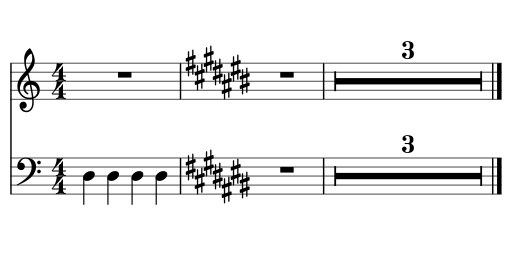
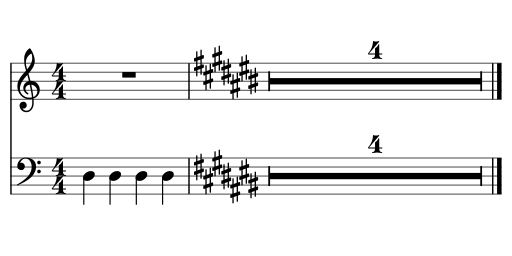
fix regressions for new mm rest implementation
Former-commit-id: 528d2976c24575aefdb820059eb806a4b4ad6875

diff --git a/libmscore/score.cpp b/libmscore/score.cpp
@@ -1596,13 +1596,10 @@ Measure* Score::firstMeasureMM() const
       MeasureBase* mb = _measures.first();
       while (mb && mb->type() != Element::MEASURE)
             mb = mb->next();
-      if (mb
-         && mb->type() == Element::MEASURE
-         && styleB(ST_createMultiMeasureRests)
-         && static_cast<Measure*>(mb)->hasMMRest()) {
-            return static_cast<Measure*>(mb)->mmRest();
-            }
-      return static_cast<Measure*>(mb);
+      Measure* m = static_cast<Measure*>(mb);
+      if (m && styleB(ST_createMultiMeasureRests) && m->hasMMRest())
+            return m->mmRest();
+      return m;
       }
 
 //---------------------------------------------------------
@@ -2038,7 +2035,7 @@ void Score::removeExcerpt(Score* score)
 
 void Score::updateNotes()
       {
-      for (Measure* m = firstMeasure(); m; m = m->nextMeasure()) {
+      for (Measure* m = firstMeasureMM(); m; m = m->nextMeasureMM()) {
             for (int staffIdx = 0; staffIdx < nstaves(); ++staffIdx) {
                   AccidentalState tversatz;      // state of already set accidentals for this measure
                   tversatz.init(staff(staffIdx)->keymap()->key(m->tick()));
@@ -2059,7 +2056,7 @@ void Score::updateNotes()
 
 void Score::cmdUpdateNotes()
       {
-      for (Measure* m = firstMeasure(); m; m = m->nextMeasure()) {
+      for (Measure* m = firstMeasureMM(); m; m = m->nextMeasureMM()) {
             for (int staffIdx = 0; staffIdx < nstaves(); ++staffIdx)
                   updateAccidentals(m, staffIdx);
             }
@@ -2075,7 +2072,7 @@ void Score::cmdUpdateAccidentals(Measure* beginMeasure, int staffIdx)
 //      qDebug("cmdUpdateAccidentals m=%d for staff=%d",
 //            beginMeasure->no(), staffIdx);
       Staff* st = staff(staffIdx);
-      for (Measure* m = beginMeasure; m; m = m->nextMeasure()) {
+      for (Measure* m = beginMeasure; m; m = m->nextMeasureMM()) {
             AccidentalState as;
             as.init(st->keymap()->key(m->tick()));
 
@@ -2257,8 +2254,11 @@ void Score::splitStaff(int staffIdx, int splitPoint)
 
       undoInsertStaff(ns, staffIdx+1);
 
-      for (Measure* m = firstMeasure(); m; m = m->nextMeasure())
+      for (Measure* m = firstMeasure(); m; m = m->nextMeasure()) {
             m->cmdAddStaves(staffIdx+1, staffIdx+2, false);
+            if (m->hasMMRest())
+                  m->mmRest()->cmdAddStaves(staffIdx+1, staffIdx+2, false);
+            }
 
       Clef* clef = new Clef(this);
       clef->setClefType(ClefType::F);
@@ -2268,16 +2268,6 @@ void Score::splitStaff(int staffIdx, int splitPoint)
       undoAddElement(clef);
 
       undoChangeKeySig(ns, 0, s->key(0));
-
-#if 0       // created on layout
-      Bracket* b = new Bracket(this);
-      b->setSubtype(BRACKET_AKKOLADE);
-      b->setTrack(staffIdx * VOICES);
-      b->setParent(firstMeasure()->system());
-      b->setLevel(-1);  // add bracket
-      b->setSpan(2);
-      undoAddElement(b);
-#endif
 
       rebuildMidiMapping();
       _instrumentsChanged = true;
@@ -2392,8 +2382,12 @@ void Score::cmdInsertPart(Part* part, int staffIdx)
 
       int sidx = this->staffIdx(part);
       int eidx = sidx + part->nstaves();
-      for (Measure* m = firstMeasure(); m; m = m->nextMeasure())
+      for (Measure* m = firstMeasure(); m; m = m->nextMeasure()) {
             m->cmdAddStaves(sidx, eidx, true);
+            if (m->hasMMRest())
+                  m->mmRest()->cmdAddStaves(sidx, eidx, true);
+            }
+
       adjustBracketsIns(sidx, eidx);
       }
 
@@ -2407,16 +2401,18 @@ void Score::cmdRemovePart(Part* part)
       int n      = part->nstaves();
       int eidx   = sidx + n;
 
-// qDebug("cmdRemovePart %d-%d", sidx, eidx);
-
       //
       //    adjust measures
       //
-      for (Measure* m = firstMeasure(); m; m = m->nextMeasure())
+      for (Measure* m = firstMeasure(); m; m = m->nextMeasure()) {
             m->cmdRemoveStaves(sidx, eidx);
+            if (m->hasMMRest())
+                  m->mmRest()->cmdRemoveStaves(sidx, eidx);
+            }
 
       for (int i = 0; i < n; ++i)
             cmdRemoveStaff(sidx);
+
       undoRemovePart(part, sidx);
       }
 
@@ -2559,8 +2555,11 @@ void Score::cmdRemoveStaff(int staffIdx)
                        int lstaffIdx = lscore->staffIdx(staff);
                        int pIndex = lscore->staffIdx(staff->part());
                        //adjustBracketsDel(lstaffIdx, lstaffIdx+1);
-                       for (Measure* m = lscore->firstMeasure(); m; m = m->nextMeasure())
+                       for (Measure* m = lscore->firstMeasure(); m; m = m->nextMeasure()) {
                               m->cmdRemoveStaves(lstaffIdx, lstaffIdx + 1);
+                              if (m->hasMMRest())
+                                    m->mmRest()->cmdRemoveStaves(lstaffIdx, lstaffIdx + 1);
+                              }
                         undoRemoveStaff(staff, lstaffIdx);
                         if (staff->part()->nstaves() == 0)
                               undoRemovePart(staff->part(), pIndex);
@@ -2589,7 +2588,7 @@ void Score::sortStaves(QList<int>& dst)
       _parts.clear();
       Part* curPart = 0;
       QList<Staff*> dl;
-      foreach(int idx, dst) {
+      foreach (int idx, dst) {
             Staff* staff = _staves[idx];
             if (staff->part() != curPart) {
                   curPart = staff->part();
@@ -2601,11 +2600,10 @@ void Score::sortStaves(QList<int>& dst)
             }
       _staves = dl;
 
-      for (MeasureBase* mb = _measures.first(); mb; mb = mb->next()) {
-            if (mb->type() != Element::MEASURE)
-                  continue;
-            Measure* m = static_cast<Measure*>(mb);
+      for (Measure* m = firstMeasure(); m; m = m->nextMeasure()) {
             m->sortStaves(dst);
+            if (m->hasMMRest())
+                  m->mmRest()->sortStaves(dst);
             }
       }
 

diff --git a/libmscore/measure.cpp b/libmscore/measure.cpp
@@ -544,12 +544,14 @@ void Measure::layout2()
       if (parent() == 0)
             return;
 
+      Q_ASSERT(score()->nstaves() == staves.size());
+
+      int tracks = score()->nstaves() * VOICES;
       qreal _spatium = spatium();
-      int tracks = staves.size() * VOICES;
       static const Segment::SegmentTypes st = Segment::SegChordRest;
       for (int track = 0; track < tracks; ++track) {
             for (Segment* s = first(st); s; s = s->next(st)) {
-                  ChordRest* cr = static_cast<ChordRest*>(s->element(track));
+                  ChordRest* cr = s->cr(track);
                   if (!cr)
                         continue;
                   int n = cr->lyricsList().size();
@@ -575,10 +577,8 @@ void Measure::layout2()
                         }
                   }
             }
-      int n = staves.size();
-      for (int i = 0; i < n; ++i)
-            staves.at(i)->lines->setWidth(width());
-
+      for (MStaff* ms : staves)
+            ms->lines->setWidth(width());
 
       MeasureBase::layout();  // layout LAYOUT_BREAK elements
 
@@ -610,7 +610,7 @@ void Measure::layout2()
             int nn = 1;
             if (!score()->styleB(ST_measureNumberAllStaffs)) {
                   //find first non invisible staff
-                  for (int staffIdx = 0; staffIdx < n; ++staffIdx) {
+                  for (int staffIdx = 0; staffIdx < staves.size(); ++staffIdx) {
                         MStaff* ms = staves.at(staffIdx);
                         SysStaff* s  = system()->staff(staffIdx);
                         Staff* staff = score()->staff(staffIdx);
@@ -620,7 +620,7 @@ void Measure::layout2()
                               }
                         }
                   }
-            for (int staffIdx = 0; staffIdx < n; ++staffIdx) {
+            for (int staffIdx = 0; staffIdx < staves.size(); ++staffIdx) {
                   MStaff* ms = staves.at(staffIdx);
                   Text* t = ms->noText();
                   if (smn) {
@@ -1001,7 +1001,7 @@ void Measure::removeStaves(int sStaff, int eStaff)
                   s->removeStaff(staff);
                   }
             }
-      foreach(Element* e, _el) {
+      foreach (Element* e, _el) {
             if (e->track() == -1)
                   continue;
             int voice = e->voice();
@@ -1011,8 +1011,6 @@ void Measure::removeStaves(int sStaff, int eStaff)
                   e->setTrack(staffIdx * VOICES + voice);
                   }
             }
-      for (int i = 0; i < staves.size(); ++i)
-            staves[i]->setTrack(i * VOICES);
       }
 
 //---------------------------------------------------------
@@ -1021,7 +1019,7 @@ void Measure::removeStaves(int sStaff, int eStaff)
 
 void Measure::insertStaves(int sStaff, int eStaff)
       {
-      foreach(Element* e, _el) {
+      foreach (Element* e, _el) {
             if (e->track() == -1)
                   continue;
             int staffIdx = e->staffIdx();
@@ -1036,8 +1034,6 @@ void Measure::insertStaves(int sStaff, int eStaff)
                   s->insertStaff(staff);
                   }
             }
-      for (int i = 0; i < staves.size(); ++i)
-            staves[i]->setTrack(i * VOICES);
       }
 
 //---------------------------------------------------------
@@ -1079,9 +1075,6 @@ qDebug("cmdRemoveStaves %d-%d", sStaff, eStaff);
 
       for (int i = eStaff - 1; i >= sStaff; --i)
             _score->undo(new RemoveMStaff(this, *(staves.begin()+i), i));
-
-      for (int i = 0; i < staves.size(); ++i)
-            staves[i]->lines->setTrack(i * VOICES);
 
       // barLine
       // TODO
@@ -1156,11 +1149,10 @@ void MStaff::setTrack(int track)
 
 void Measure::insertMStaff(MStaff* staff, int idx)
       {
+printf("insertMStaff %d\n", idx);
       staves.insert(idx, staff);
       for (int staffIdx = 0; staffIdx < staves.size(); ++staffIdx)
             staves[staffIdx]->setTrack(staffIdx * VOICES);
-      if (MScore::debugMode)
-            qDebug("     Measure::insertMStaff %d -> n:%d", idx, staves.size());
       }
 
 //---------------------------------------------------------
@@ -1169,9 +1161,7 @@ void Measure::insertMStaff(MStaff* staff, int idx)
 
 void Measure::removeMStaff(MStaff* /*staff*/, int idx)
       {
-      if (MScore::debugMode)
-            qDebug("     Measure::removeMStaff %d", idx);
-
+printf("removeMStaff %d\n", idx);
       staves.removeAt(idx);
       for (int staffIdx = 0; staffIdx < staves.size(); ++staffIdx)
             staves[staffIdx]->setTrack(staffIdx * VOICES);
@@ -2518,7 +2508,7 @@ void Measure::setEndBarLineType(BarLineType val, bool g, bool visible, QColor co
 void Measure::sortStaves(QList<int>& dst)
       {
       QList<MStaff*> ms;
-      foreach(int idx, dst)
+      foreach (int idx, dst)
             ms.push_back(staves[idx]);
       staves = ms;
 

diff --git a/libmscore/layout.cpp b/libmscore/layout.cpp
@@ -565,25 +565,21 @@ void Score::doLayout()
             createPlayEvents();
 
       int measureNo = 0;
-      for (MeasureBase* m = first(); m; m = m->next()) {
-            if (m->type() == Element::MEASURE) {
-                  Measure* measure = static_cast<Measure*>(m);
-                  measureNo += measure->noOffset();
-                  measure->setNo(measureNo);
-                  if (measure->sectionBreak() && measure->sectionBreak()->startWithMeasureOne())
-                        measureNo = 0;
-                  else if (measure->irregular())      // dont count measure
-                        ;
-                  else
-                        ++measureNo;
-                  }
+      for (Measure* m = firstMeasure(); m; m = m->nextMeasure()) {
+            Measure* measure = static_cast<Measure*>(m);
+            measureNo += measure->noOffset();
+            measure->setNo(measureNo);
+            if (measure->sectionBreak() && measure->sectionBreak()->startWithMeasureOne())
+                  measureNo = 0;
+            else if (measure->irregular())      // dont count measure
+                  ;
+            else
+                  ++measureNo;
+            measure->setBreakMMRest(false);
             }
 
-      for (MeasureBase* m = first(); m; m = m->next()) {
+      for (MeasureBase* m = first(); m; m = m->next())
             m->layout0();
-            if (m->type() == Element::MEASURE)
-                  static_cast<Measure*>(m)->setBreakMMRest(false);
-            }
 
       layoutFlags = 0;
 
@@ -928,6 +924,7 @@ void Score::createMMRests()
                   // create a multi measure rest from m to lm (inclusive)
                   // attach the measure to m
                   //
+                  printf("create mm rest %d %d\n", n, _showVBox);
                   Measure* mmr = m->mmRest() ? m->mmRest() : new Measure(this);
                   mmr->setMMRestCount(n);
                   mmr->setTick(m->tick());
@@ -1417,7 +1414,7 @@ bool Score::layoutSystem1(qreal& minWidth, bool isFirstSystem, bool longName)
 
 void Score::removeGeneratedElements(Measure* sm, Measure* em)
       {
-      for (Measure* m = sm; m; m = m->nextMeasure()) {
+      for (Measure* m = sm; m; m = m->nextMeasureMM()) {
             //
             // remove generated elements from all measures in [sm;em]
             //    assume: generated elements are only living in voice 0
@@ -2033,12 +2030,7 @@ QList<System*> Score::layoutSystemRow(qreal rowWidth, bool isFirstSystem, bool u
 
 void Score::layoutSystems()
       {
-      curMeasure = _showVBox ? first() : firstMeasure();
-      if (curMeasure->type() == Element::MEASURE
-         && styleB(ST_createMultiMeasureRests)
-         && static_cast<Measure*>(curMeasure)->hasMMRest()) {
-            curMeasure = static_cast<Measure*>(curMeasure)->mmRest();
-            }
+      curMeasure              = _showVBox ? firstMM() : firstMeasureMM();
       curSystem               = 0;
       bool firstSystem        = true;
       bool startWithLongNames = true;
@@ -2061,7 +2053,7 @@ void Score::layoutSystems()
                   system->rxpos() = 0.0;
                   system->setPageBreak(vbox->pageBreak());
                   system->measures().push_back(vbox);
-                  curMeasure = curMeasure->next();
+                  curMeasure = curMeasure->nextMM();
                   ++curSystem;
                   }
             else {

diff --git a/libmscore/measurebase.cpp b/libmscore/measurebase.cpp
@@ -195,13 +195,9 @@ Measure* MeasureBase::nextMeasureMM() const
             m = m->_next;
             }
       Measure* mm = static_cast<Measure*>(m);
-      if (mm
-         && mm->type() == MEASURE
-         && score()->styleB(ST_createMultiMeasureRests)
-         && static_cast<Measure*>(mm)->hasMMRest()) {
-            return static_cast<Measure*>(mm)->mmRest();
-            }
-      return static_cast<Measure*>(mm);
+      if (mm && score()->styleB(ST_createMultiMeasureRests) && mm->hasMMRest())
+            return mm->mmRest();
+      return mm;
       }
 
 //---------------------------------------------------------

diff --git a/libmscore/segment.h b/libmscore/segment.h
@@ -119,7 +119,11 @@ class Segment : public Element {
 
       ChordRest* nextChordRest(int track, bool backwards = false) const;
 
-      Q_INVOKABLE Ms::Element* element(int track) const    { return _elist.value(track);  }
+      Q_INVOKABLE Ms::Element* element(int track) const { return _elist.value(track);  }
+      ChordRest* cr(int track) const                    {
+            Q_ASSERT(_segmentType == SegChordRest);
+            return (ChordRest*)(_elist.value(track));
+            };
       const QList<Element*>& elist() const { return _elist; }
 
       void removeElement(int track);
